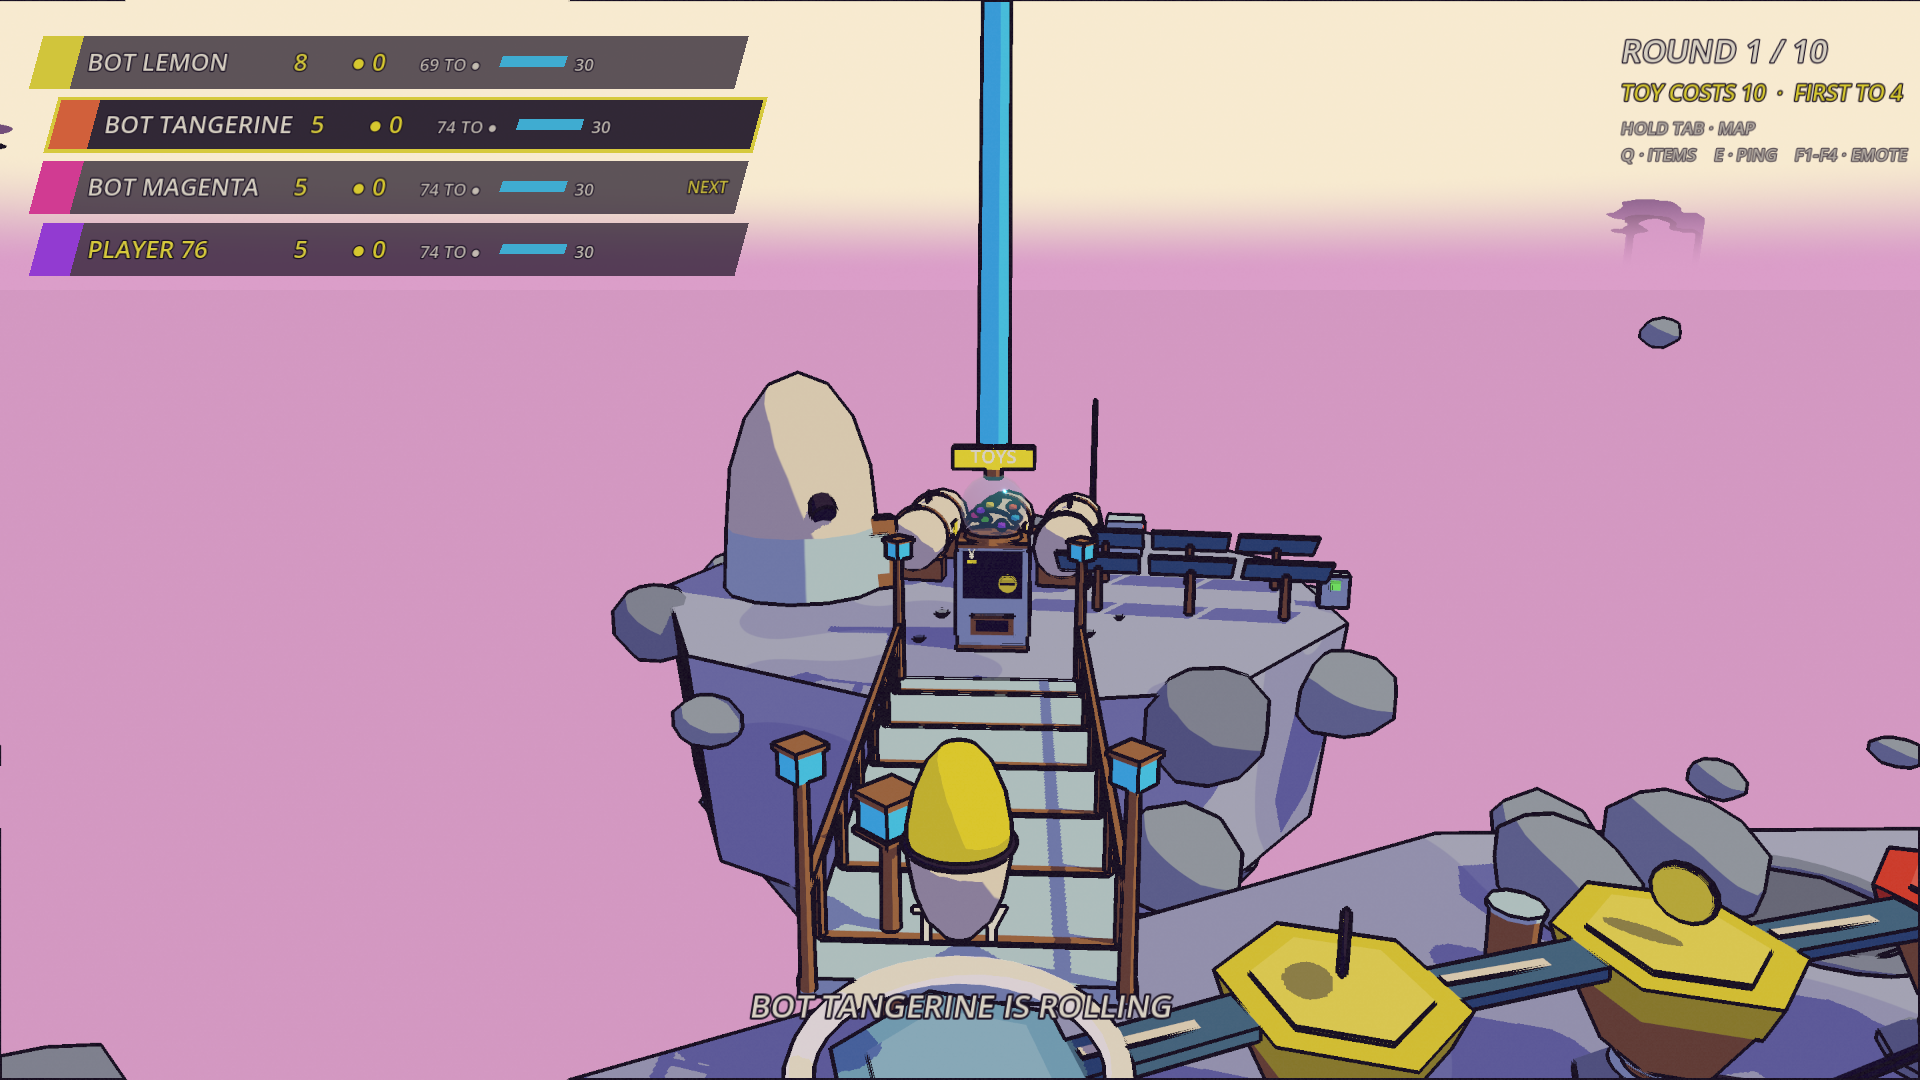
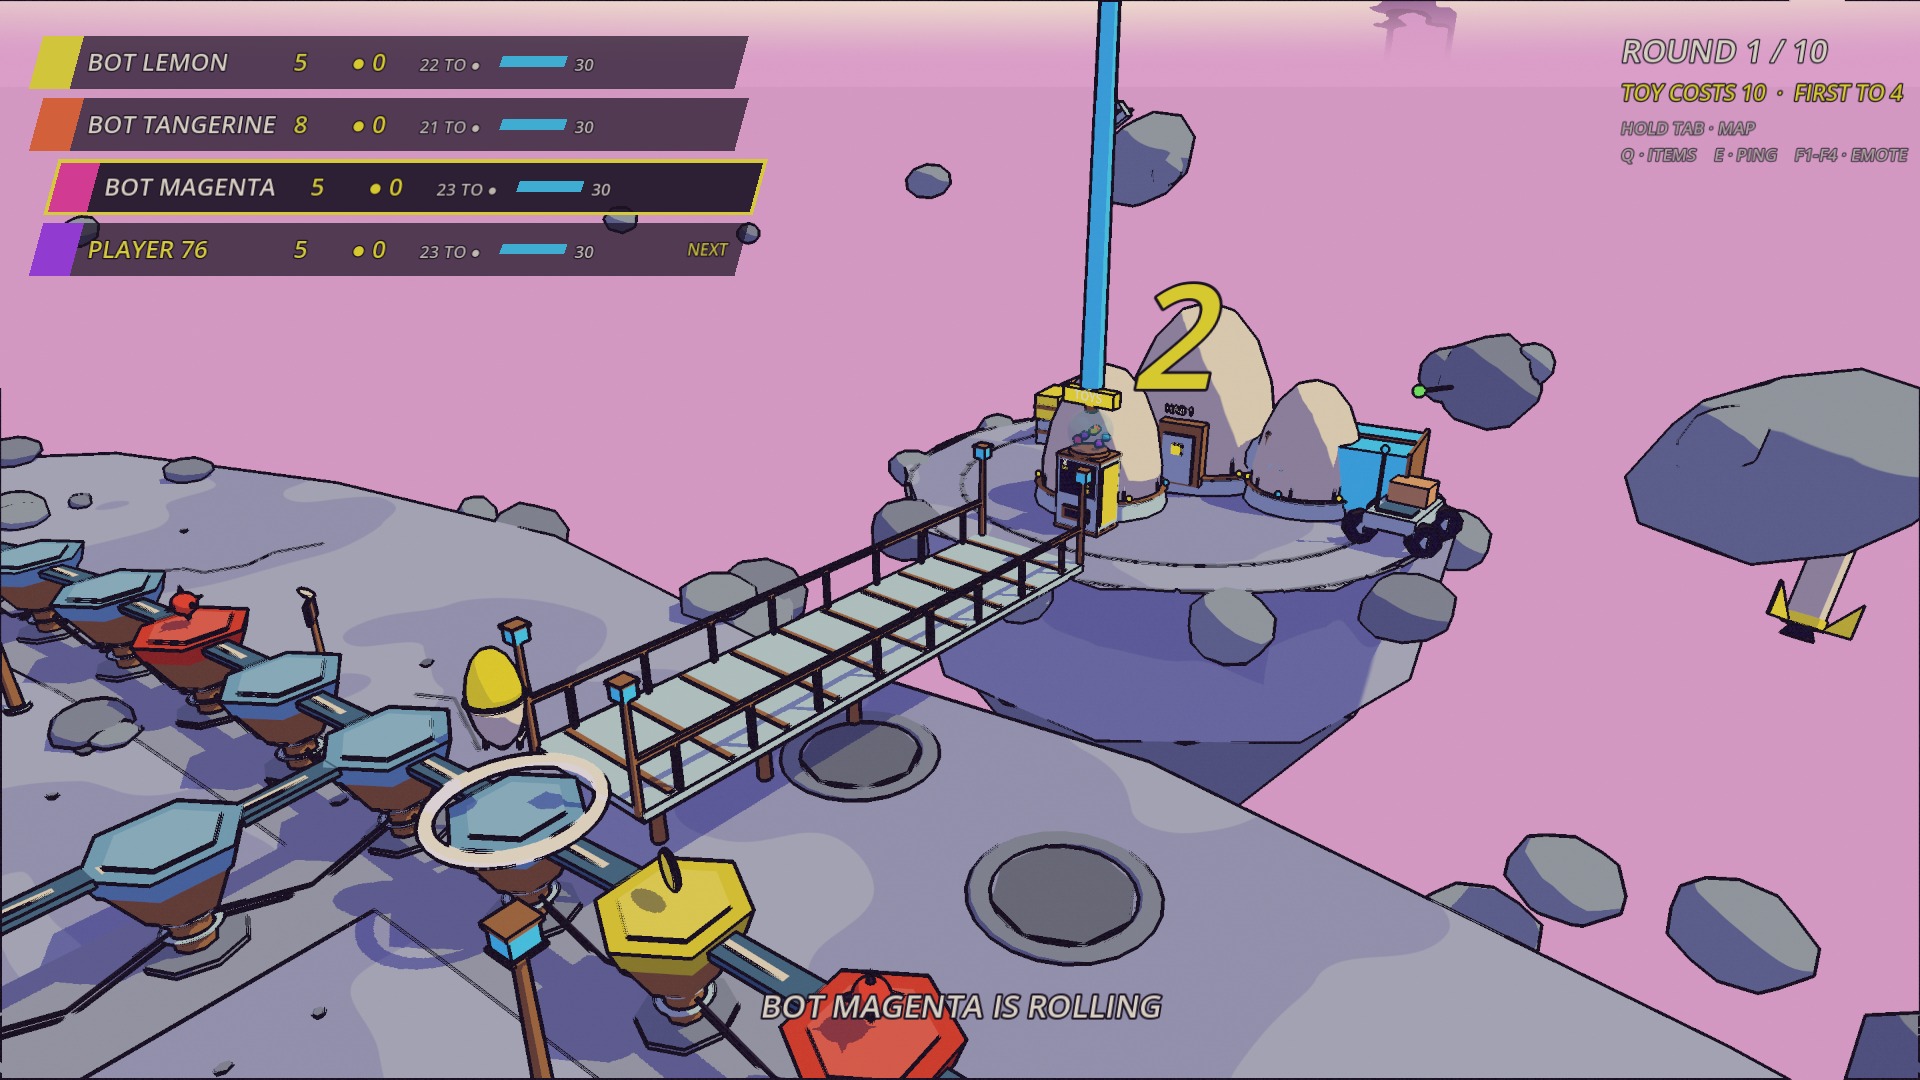
District frames: the fork prompt and the live annex; the buggy's road on the margin strip

diff --git a/DECISIONS.md b/DECISIONS.md
@@ -190,3 +190,4 @@ Append-only. One line per assumption: date, the decision, the reason. Newest at 
 - 2026-09-23 — Sean: "can you move the gun to the left more so we can see the whole scope." The sniper's hip x goes 0.23 → 0.16 (7 cm left; y and z as they were, the AR untouched). Its eyepiece sits 21 cm from the eye, so at x 0.23 the eyepiece's centre projected to x = 1945 on a 1920-wide frame: the rear of the scope, the glass he calls the best feature, was off the right edge. At x 0.16 the eyepiece's right edge lands at about x = 1830, 90 px inside, and the derived aim (`_aim_at_reticle`) follows the new position (yaw +0.47°). Frame: `arena_hip_sniper.png`.
 - 2026-09-23 — Sean asked how many spots would make a lap "closer to 20 turns" and said "yes rerun it, but make sure to keep the same vibe of the map". BOMBA BAY's laps were 30–40 steps, 8 turns of the d8 on average (Pummeltown, counted from his overhead shot, is 98 spaces). The generator is now GDScript (`tools/gen_board.gd`, a port of `gen_board.py`, which is gone: this desktop has no Python) with the loop length as its argument: the same wobbly ellipse (58.7 × 44 m, was 24 × 18), the same 3.7 m spacing, the same two elevation waves, tile mix and the one safe spot opposite the start, and the same four branches as fractions of the loop (a raised inner bridge on the first bend, two inner cuts, an outside item-rich detour), but short: an inner cut bows toward the centre so it runs a step or two shorter than the arc it replaces, the outside detour a step longer, so no branch halves a lap. Result: 116 spaces, a loop of 86, forks at L7 / L26 / L39 / L58, branches of 10 / 6 / 6 / 8, every lap 86–92 steps = 19.1–20.4 turns (mean 19.8; `tools/board_laps.gd` prints them). The look keeps its density rather than its counts: the slab is 4.3 × the area, so craters, boulders, hatches, rock clusters, pebbles, dust and cracks scale with the area (`_moon_density` / `_density`), the rim rock, solar arrays, cargo stacks and asteroids with its square root; the overview camera frames from the bounds. `tools/mark_spots.gd` keeps the annexes at least 8 hops from the start either way round (the east dip in this loop sits one step before it): L49 (200°) and L74 (340°). Frames: overview, map, start, the live annex. Flagged for Sean: with a 20-turn lap the first machine is 74 hops from the start and the two-spot rule keeps it half a lap from everyone, so a 10-round cap ends most matches before anyone has 4 toys; FIRST TO and ROUND CAP are his lobby settings. Board GPU at 1080p on the 5090: 0.62 ms mean / 0.63 p95 (the 65-space board was 0.69 / 1.27), render CPU 0.70 ms, PACING 0 frames over 1.5× the median and no pipelines compiled while playing.
 - 2026-09-24 — Sean, with an overhead shot of a street-grid party board (octagonal spaces along the sidewalks of a suburb, an arrow on every link, houses, a garden, a park and a pool in the blocks): "make the layout of the board game like this... right now it's just a big circle and doesn't feel as engaging. I like how in this one you can put decorative stuff about the map in the open spaces where there's no place to land on. spend time and make the entire map cohesive." BOMBA BAY is a district now (`tools/gen_board.gd`, rewritten, seed 11): one-way walkways laid out like streets round blocks. The RING ROAD is a rounded plot (a superellipse 108 × 86 m, exponent 3.2, clockwise seen from the north), 87 spaces, so a lap of it alone is still his 20 turns of the d8 (19.3); MAIN STREET crosses the middle eastbound and two AVENUES at x = ±22 m run south (the west one) and north (the east one), so every junction is "straight on or turn" and the four loops round the middle blocks all run clockwise; the PAD APRON is a rectangular detour off the north edge round the landing pad and the BOARDWALK a curve off the south edge round the big crater (item-rich, the old outside detour's mix). 186 spaces, 7 forks (R2, R4, R29, R45, R47, M8, M20), every space reaches every other (the generator checks strong connectivity, one-in-two-out forks, 3.36 m minimum spacing, 4.51 m longest hop), 14 routes from the start back to it of 36–116 steps (mean 87.7 = 19.5 turns; the shortest is the south-east block's own loop). The start is on the south edge (R0, heading west: the first fork, the east avenue, is two spaces on), the safe spot opposite on the north edge. The board file carries what the look needs: "slab" (the moon chunk as a superellipse round the district, a 10 m margin at the sides and 7 m top and bottom), "annexes" (the rim angles 0° and 180°, the two ends of main street: `AnnexPlan.angles` returns a board's own angles and keeps the clearance search for boards without them, which picked 20° and 160° here because a superellipse's corner sits as far out as its side) and "zones" (nine blocks, each a disc with a kind and a yaw). `board/moon_slab.gd` (`MoonSlab`) is the one shape the view, the dressing, the annex plan and `tools/mark_spots.gd` share (the rim on a ray, the fraction of the way out, the area); the slab mesh is a prism on its outline (40 sides wobbled 1.5 %, explicit per-face normals: SurfaceTool's generated normals smoothed the rim between the top and the sides and shaded the top as a lit blob fading to the shadow band). The dressing builds a set-piece per block from the zones (`BoardDressing._blocks`, its own part of the chunked build): HAB 2 (the three-dome habitat, the comms tower, oxygen), the LANDING PAD inside the apron (the rocket's pad with twelve landing lights, the fuel bowser with its hose, the buggy parked beside it), the DEPOT (a quonset hangar marked MAINT, two cargo stacks, spools, a crane with a crate on its hook), the FARM (six greenhouses in two rows with pavers between, a water tank on legs with a ladder, the pump), the TANK FARM (LOX and LH2 spheres on legs, the three horizontal tanks, a pipe run, oxygen), the CRATER PARK (the 4 m crater with the drill rig, boulders on its far rim, two benches on the near one, an upper lawn of rock clusters, dust and two small craters round the half-buried probe), the POWER PLANT (a 3 × 3 solar field, the reactor with a glowing ring and two cooling towers, a fenced substation, the dish on its tripod) and the PLAZA off the start (the crew by the flag between two benches); the annexes keep their pieces (domes, greenhouse and cargo west; fuel tanks, solar array and telescope east) and the five landmark props take their spots from the zones instead of a search. The small craters keep to the open moon between the ring road and the rim and the park's lawn; boulders and the random fillers keep out of the blocks' discs; hatches are a dozen (56 at the loop board's density read as litter on the map). Three things make the streets read as streets: a paved band under every walkway (the moon tone darkened 10 %, post to post), a chevron at the far end of every plank's stripe (every street is one-way; the reference draws an arrow on every link) and the lamps on the right-hand side of travel. `tools/mark_spots.gd` also skips merges (a bridge from a space two streets run into would cross one) and flags R74 (east) and R30 (west), 10.7 m from their rim points. Measured at 1080p on the 5090 (host + 2 bots, 12 s): GPU 0.72 ms mean / 0.74 p95 (the loop board 0.62 / 0.63), render CPU 1.26 ms (0.70), PACING 0 frames over 1.5× the median, 0 pipelines compiled while playing; the look builds over 19 frames under the wipe, the longest chunk 42 ms (the craters and boulders), the dressing 34 / 16 / 7 / 28 / 1 / 1 ms (path, annexes, blocks, ground, signs, life); 6997 nodes (2795). Frames: `board_overview.png`, `board_map.png`, `board_turn.png` retaken; `board_district_north.png` (the depot, the apron and the rocket behind it, HAB 2 at the edge) and `board_district_east.png` (the power plant, the farm beyond) new; the map frame's STYLE numbers saturated 4 %, grey 29 %, dark 5 %, v95 0.83. `tools/check_all.sh` green (79 tests, determinism identical, the headless four-seat match on the district). His verdict on the layout, the pavement and the chevrons pending; the one number to watch if matches feel short is the south-east loop, 36 steps (8 turns).
+- 2026-09-24 — Two frames retaken on the district and one road moved. `board_fork.png`: the fork prompt at main street's east junction (M20), LEFT the avenue north and RIGHT straight on east; the buttons are labelled by the tiles' screen x as before, so with the fixed north-looking camera a turn toward the camera reads as LEFT whatever the pawn's heading, and the hover preview is what shows the route. `board_machine.png`: the live machine on the east annex, the bridge from R74 on the ring road's east side. The buggy's road samples the slab at 0.955 of the way out (was 0.92): the district's path-side props stand 2.4 m outside the ring road and blocked every arc of the old ring, so the buggy fell back to circling the base annex; the strip of open moon between the ring road and the rim is clear, and the annex bridges cut it into a north arc and a south arc.

diff --git a/STATUS.md b/STATUS.md
@@ -866,8 +866,8 @@ board match on the new board.
   | render CPU ms | 0.70 | 1.26 |
   | first build under the wipe | 18 frames, longest 38 ms | 19 frames, longest 42 ms |
 
-  Frames: `board_overview.png`, `board_map.png`, `board_turn.png` (retaken),
-  `board_district_north.png`, `board_district_east.png` (new). His verdict pending.
+  Frames: `board_overview.png`, `board_map.png`, `board_turn.png`, `board_fork.png`, `board_machine.png`
+  (retaken), `board_district_north.png`, `board_district_east.png` (new). His verdict pending.
 
 ### Next
 1. Sean: the district (the layout, the paved bands, the chevrons), and whether the short
